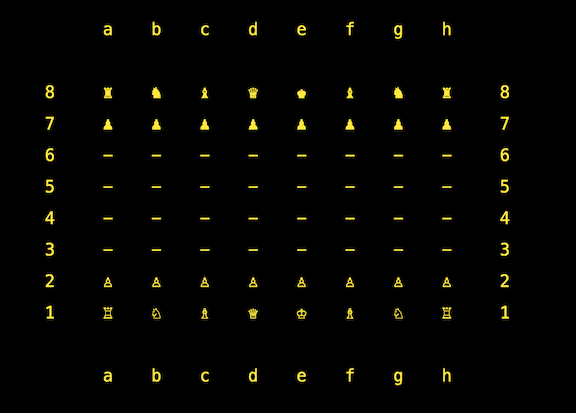
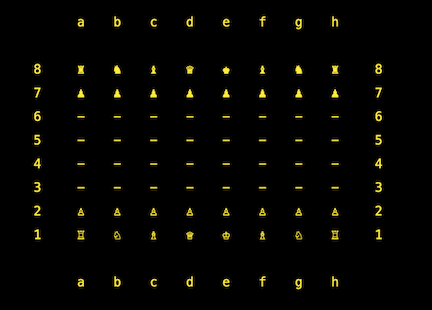
Update README.md with editing and image resizing.

diff --git a/README.md b/README.md
@@ -6,29 +6,29 @@ The assignment is to build a command line chess game where two players can play 
 
 ## Challenges
 
-Programming the legal and illegal moves of chess can be challenging. Although one of the most difficult game pieces to program, the knight, was previously handled in [The Odin Project's Knights Travails](https://github.com/dm-murphy/knights-travails) assignment, the sheer scope of a full chess program along with the special rules for kings and pawns kept this interesting.
+Programming the legal and illegal moves of chess can be challenging. Although one of the most difficult game pieces, the knight, was previously handled in [The Odin Project's Knights Travails](https://github.com/dm-murphy/knights-travails) assignment, the sheer scope of a full chess program along with the special rules for kings and pawns kept this interesting.
 
 ###### Blocked Paths and Program Speed
 
-Apart from the knight, no piece can "jump" over another piece to reach its desired destination. The rook, bishop and queen (and even the pawn) can move multiple spaces in a single turn. However the program must account for a blocked path where either a player piece or opponent piece could be in the way. Originally this program used recursion to detect a blocked path, however this slowed the program's move detection just enough to annoy this developer. The blocked path methods were refactored into a simple loop that produced an array of spaces which could be checked as occupied or empty. However some pieces decided that taking a straight line wasn't nearly as fun as zig zagging. Finally, each piece in the program was provided not only with destination moves within the board's limits, but also with next-space moves to use when building paths. This fully sped up the program and solved any zig zag issues for checking the king.
+Apart from the knight, no piece can "jump" over another piece to reach its desired destination. The rook, bishop and queen (and even the pawn) can move multiple spaces in a single turn. However the program must account for a blocked path where either a player piece or opponent piece could be in the way. Originally this program used recursion to detect a blocked path, however this slowed the program's move detection just enough to annoy this developer. The blocked path method was refactored into a simple loop that produced an array of spaces which could then be checked as occupied or empty. However some pieces decided that taking a straight line wasn't nearly as fun as zigzagging. Each piece in the program was provided not only with destination moves within the board's limits, but also with next-space moves to use when building paths. This fully sped up the program and solved any zigzag issues for checking the king.
 
 ###### King Rules
 
-The king piece cannot move itself into check and cannot ignore being in check, this includes normal moves for the king as well as castling. In order for the king and rook to castle neither piece may have had a prior move, there must be no pieces in between them, and the king must be the piece moved into correct position before the rook can switch its side. Once castled, the player cannot castle again. 
+The king piece cannot move itself into check and cannot ignore being in check, this includes normal moves for the king as well as castling. In order for the king and rook to castle neither piece can have a prior move, there must be no pieces in between them, and the player must select the king, not the rook, to make the castle. Once castled, the player cannot castle again. 
 
 ###### The Mighty Pawn
 
 While most pieces could share a single piece module, the pawn piece requires a special method for creating all of its possible moves as well as additional classes to handle specialty pawn rules like pawn promotion and en passant captures. 
 
-The pawn can move forward a single space except on its first turn where it can move forwad two or one spaces. The blocked path methods help keep the pawn moves legal here. Although the pawn likes to move forward it can only attack diagonally making the pawn the only piece that requires separate coordinate changes for moving and attacking. 
+The pawn can move forward a single space except on its first turn where it can move foward one or two spaces. The blocked path methods help keep the pawn moves legal here. Although the pawn likes to move forward it can only attack diagonally, making the pawn the only piece that requires separate coordinate changes for moving and attacking. 
 
-In en passant captures the player pawn can take over a seemingly empty square if an opponent pawn has double jumped through the space. However, not only must the pawn correctly follow the special en passant rules but it must not impact the basic game rules, such as putting the king in check with an en passant capture. Another challenge to the en passant is that when the turn ends, the availability of a possible en passant capture must be passed along to the opposite player. En passant captures are not automatic, the player must decide on the very next turn if they would like to make the capture or a different move.
+In en passant captures the player pawn can take over a seemingly empty square if an opponent pawn has double jumped through the space. However not only must the pawn correctly follow the special en passant rules but it must not impact the basic game rules, such as putting the king in check with an en passant capture. Another challenge to the en passant is that when the turn ends, the availability of a possible en passant capture must be passed along to the opposite player. En passant captures are not automatic, the player must decide on the very next turn if they would like to make the capture or a different move.
 
-If a pawn makes it all the way across the board it can be promoted to another piece. This program allows for any legal promotion piece to be selected by the player, including the rare instances of promoting a pawn to a rook or bishop instead of a queen in order to prevent a stalemate.
+If a pawn makes it all the way across the board it can be promoted to another piece. This program allows the player to select any legal promotion, including the rare instances of promoting a pawn to a rook or bishop instead of a queen in order to prevent a stalemate.
 
 ###### Win, Lose or Draw
 
-Developing the end of the game status meant simulatenously calculating for any possible checks of a king as well as player moves available. As detailed above, once recursion was removed from this step, the speed on these methods became much quicker. In chess, the game is one when one player places the opponent into check and the opponent has no legal moves available.
+Developing the end of the game requires simultaneously calculating for any possible checks of a king as well as any available player moves. As detailed above, once recursion was removed from this step, the speed on these methods became much quicker. In chess, the game is won when a player places the opponent into check and the opponent has no legal moves available.
 
 For draws, this program detects instances where the player has no available moves and triggers a stalemate. However the program does not utilize a timer so there are no timed game draws. Additionally the project has not been programmed to follow the fifty-move, threefold repetition or dead move rules.
 
@@ -40,7 +40,7 @@ This program uses a minimalist design that is quick and easy to run locally and 
 
 ![chess_game_display](chess_display.png)
 
-The board displays chess notation with letters a - h representing the eight columnds and numbers 1 - 8 representing the eight rows.
+The board displays chess notation with letters a - h representing the eight columns and numbers 1 - 8 representing the eight rows.
 
 Players select pieces with standard algebraic notation (e.g. the leftmost white pawn is selected with a2)
 
@@ -48,13 +48,15 @@ The board outputs all available legal moves for the given piece and players agai
 
 It was a goal of this project to display all legal moves to a player rather than require the selection and move in one entry. This design makes the game easier for beginners and helps reveal legal and illegal moves to learning players.
 
+In an effort to follow chess etiquette, the program does not initially announce when a player is in check. However if the checked player attempts to make an illegal move the board will notify the player that the king is in check.
+
 ## Serilization
 
-Players can save their game file on any turn and restore a loaded file instead of starting a new game. The program uses YAML for serilization. All statuses in the game are kept in the saved file from the board state and piece positions to any leftover en passant captures, piece first move histories and the current player turn. Game files are saved in a new directory and players can choose which ones to load via their timestamp.
+Players can save their game file on any turn. This allows users to restore a loaded file instead of starting a new game. The program uses YAML for serialization. All statuses in the game are kept in the saved file from the board state and piece positions to any leftover en passant captures, piece first move histories and the current player turn. Game files are saved in a new directory and players can choose which ones to load via a sorted timestamp.
 
 ## Tests with RSpec
 
-Spec files were created for most of the core classes and the piece module. Although some methods were developed with TDD, most of the program was figured out first and tested afterwards. At the start of the project, testing the program with puts messages and a quick entry of piece moves proved easy and effective. However, as the program was fleshed out it became more challenging to repeat long entries of piece moves into the command line. As classes and methods were refactored and large portions of the game completely overhauled, old RSpec tests needed to be rewritten and more tests introduced. Ultimately this project proved a good lesson in the importance of testing and some of the difficulties in waiting to test until after the fact.
+Spec files were created for most of the core classes and the piece module. Although some methods were developed with TDD, most of the program was figured out first and tested afterwards. At the start of the project, testing the program with puts messages and a quick entry of piece moves proved easy and effective. However as the program was fleshed out it became more challenging to repeat long entries of piece moves into the command line. As classes and methods were refactored and large portions of the game completely overhauled, old RSpec tests needed to be rewritten and more tests introduced. Ultimately this project proved a good lesson in the importance of testing and some of the difficulties in waiting to test until after the fact.
 
 Attempts were made to distinguish between incoming, outgoing and self sent messages. For many methods, simple queries were not tested. Complex queries and times when issues were repeatedly checked on the command line were given tests. Outgoing commands were tested for sending a command to the outgoing object.
 
@@ -64,9 +66,9 @@ Given the scope of the project, local branches were divided up into areas of the
 
 ## Learning Outcomes
 
-This capstone project was incredibly rewarding for me to develop. I was able to build out the program from scratch without any tutorials or hand holding. Knowing the game of chess well from decades of playing, I was originally timid on some of the special rules like en passant captures, castling, as well as navigating all of the piece interactions. Although challenges arose, this did not prove to be the most difficult part of the project. Instead, trying to follow OOP guidelines, maintain single responsibility and utilize testing were the biggest issues. 
+This capstone project was incredibly rewarding for me to develop. I was able to build out the program from scratch without any tutorials or hand holding. Knowing the game of chess well, I was originally timid on some of the special rules like en passant captures, castling, as well as navigating all of the piece interactions. Although challenges arose, this did not prove to be the most difficult part of the project. Instead trying to follow OOP guidelines, maintain single responsibility and utilize testing were the biggest issues. 
 
-Much more refactoring could be done on this project. The MoveGenerator class is currently doing too much heavy lifting and there are several methods that have more than one responsibility. But overall I felt very accomplished in working through this program and seeing what I was capable of building from nothing simply from utilizing the lessons I have learned by working through The Odin Project curriculum. I am humbled that I have been able to get this far with a self-teaching approach and that there seems so much more to learn. 
+Much more refactoring could be done on this project. The MoveGenerator class is currently doing too much heavy lifting and there are several methods that have more than one responsibility. But overall I felt very accomplished in working through this program and seeing what I was capable of building from nothing simply by utilizing the lessons I have learned by working through The Odin Project curriculum. I am amazed that I have been able to get this far with a self-teaching approach and humbled that there seems so much more to learn. 
 
 I am very grateful to all the developers who have contributed to and helped maintain The Odin Project, offering a free and open-source curriculum for developers like myself.
 
